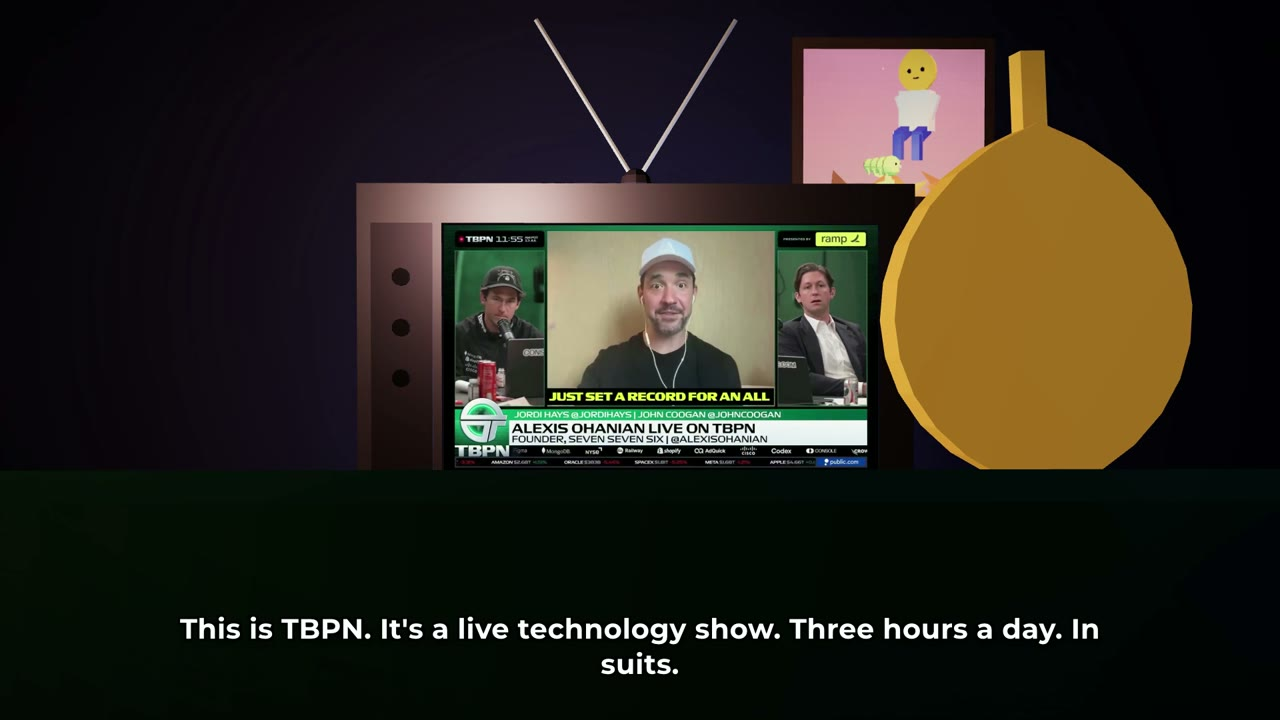
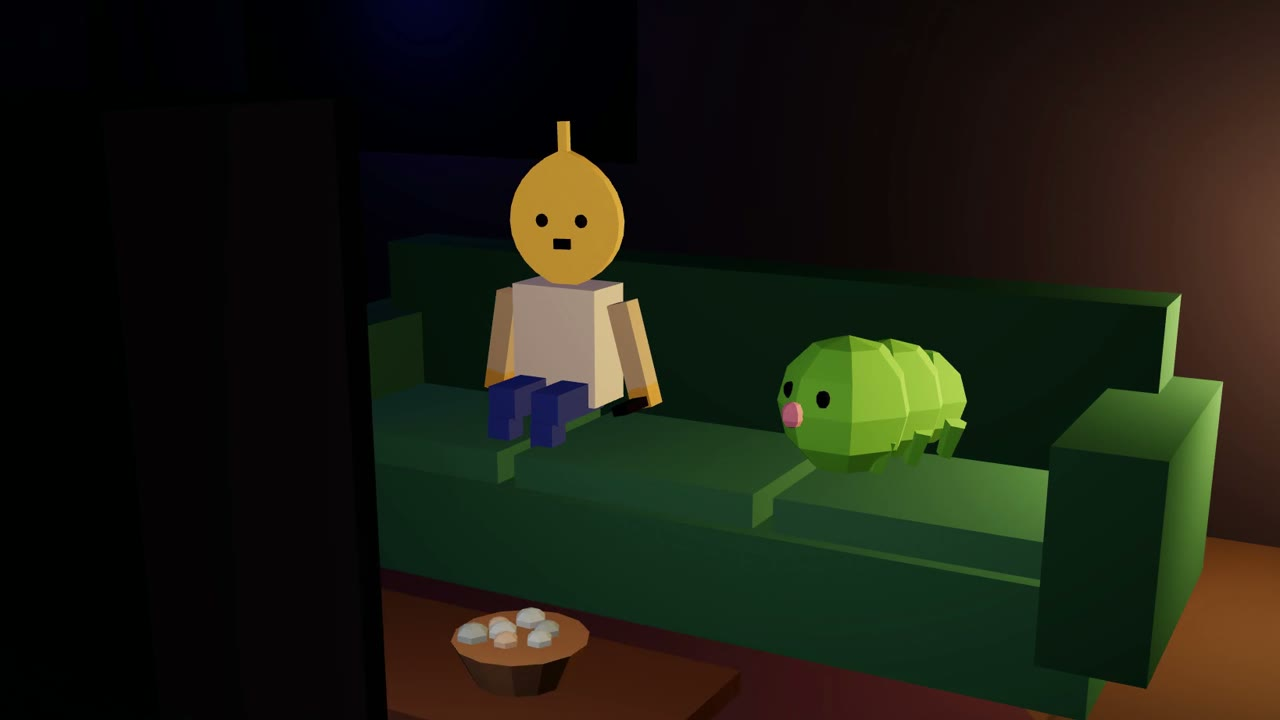
Better Fig & Moss still, and trim the rundown to one row
The section image showed the TV with a real clip on it, which demonstrated the
format but hid the characters: Fig was a gold blob at the frame edge and Moss
wasn't visible at all. Replaced with the opening couch two-shot at 5.4s, which is
the only window where the wide is up but the episode title lockup has faded and
the TV glimpse hasn't started. Cropped to 16:9 above the subtitle line. Now you
can actually see both of them, plus the pebble bowl. Caption and alt updated to
match what's in frame.

Also dropped AndThen from the rundown so the four cards sit on one row instead of
wrapping The Tonight Show onto an awkward second line. AndThen keeps its own full
section further down the page.

Claude-Session: https://claude.ai/code/session_019G9TzscaQPgG3x7SYVpnfS

diff --git a/src/components/FigMoss.jsx b/src/components/FigMoss.jsx
@@ -60,14 +60,15 @@ export default function FigMoss() {
           <a href="https://figandmoss.tv" target="_blank" rel="noopener noreferrer" className="figmoss-screenshot-link">
             <img
               src="/figmoss-screenshot.jpg"
-              alt="Fig watching a real TBPN clip play on the wood-cabinet television inside his apartment"
+              alt="Fig, a small figure with a gold fig-leaf head, sits on a green couch beside Moss, a green tardigrade. A bowl of pebbles rests on the coffee table."
               className="figmoss-screenshot"
               loading="lazy"
             />
           </a>
           <p className="figmoss-caption">
-            Fig &amp; Moss Watch Stuff: real clips play on the television inside their
-            apartment, and they pause it constantly to argue about what they just saw.
+            That's the whole cast: Fig on the left, Moss on the right, and Moss's pebble
+            collection on the table. Real clips play on the television they're facing,
+            and they pause it constantly to argue about what they just saw.
           </p>
           <a href="https://figandmoss.tv" target="_blank" rel="noopener noreferrer" className="btn btn-large figmoss-btn">
             Visit Fig &amp; Moss →

diff --git a/src/components/Hero.jsx b/src/components/Hero.jsx
@@ -20,12 +20,8 @@ const rundown = [
     href: 'https://fishbowl.show',
     cta: 'Try it',
   },
-  {
-    title: 'AndThen',
-    detail: 'Interactive audio storytelling startup. Backed by a16z Speedrun.',
-    href: 'https://andthen.chat',
-    cta: 'Play it',
-  },
+  // AndThen is deliberately not in the rundown: five cards wrapped The Tonight Show
+  // onto an awkward second row. It still has its own full section further down.
   {
     title: 'The Tonight Show',
     detail: 'Emmy-winning showrunner. Two decades in TV and digital, 100M+ viewers reached.',
